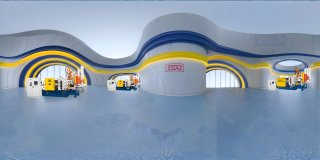
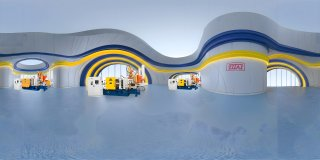
Update zone-1 panorama background from 冷室鑄造機第一展間v2.

diff --git a/index.html b/index.html
@@ -140,6 +140,6 @@
     </div>
   </aside>
 
-  <script type="module" src="./js/lobby.js?v=hall250716e"></script>
+  <script type="module" src="./js/lobby.js?v=hall250718a"></script>
 </body>
 </html>

diff --git a/js/lobby.js b/js/lobby.js
@@ -15,7 +15,7 @@ import {
   buildMachineMarkers,
 } from './machine-panel.js?v=hall250716a';
 
-const MEDIA_VERSION = 'hall250716e';
+const MEDIA_VERSION = 'hall250718a';
 // 媒體快取版本：更換背景圖或縮圖後調高此值即可強制瀏覽器重新載入
 
 function mediaUrl(folder, file) {